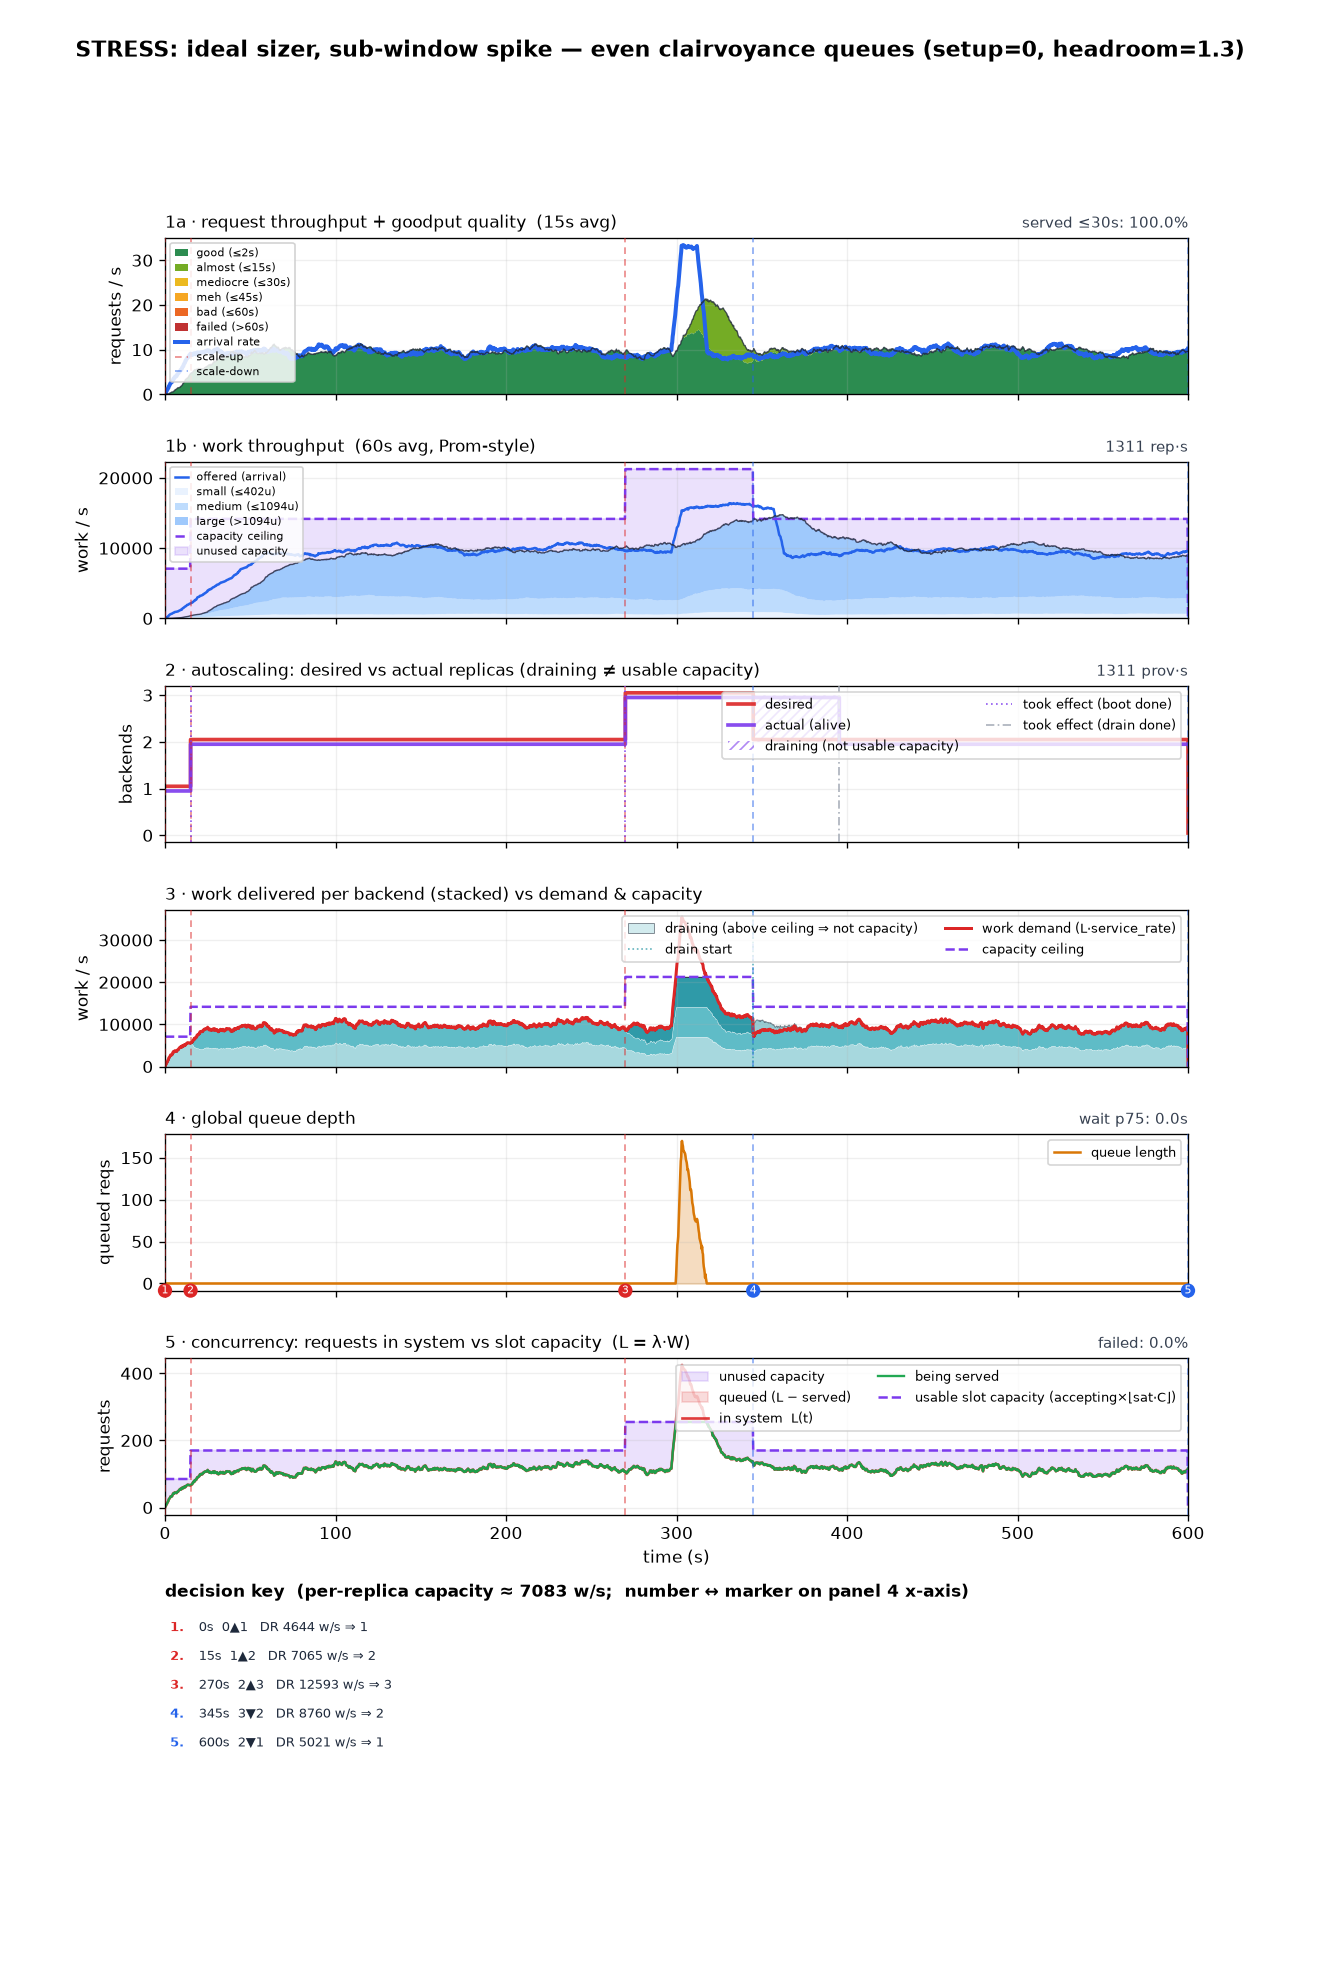
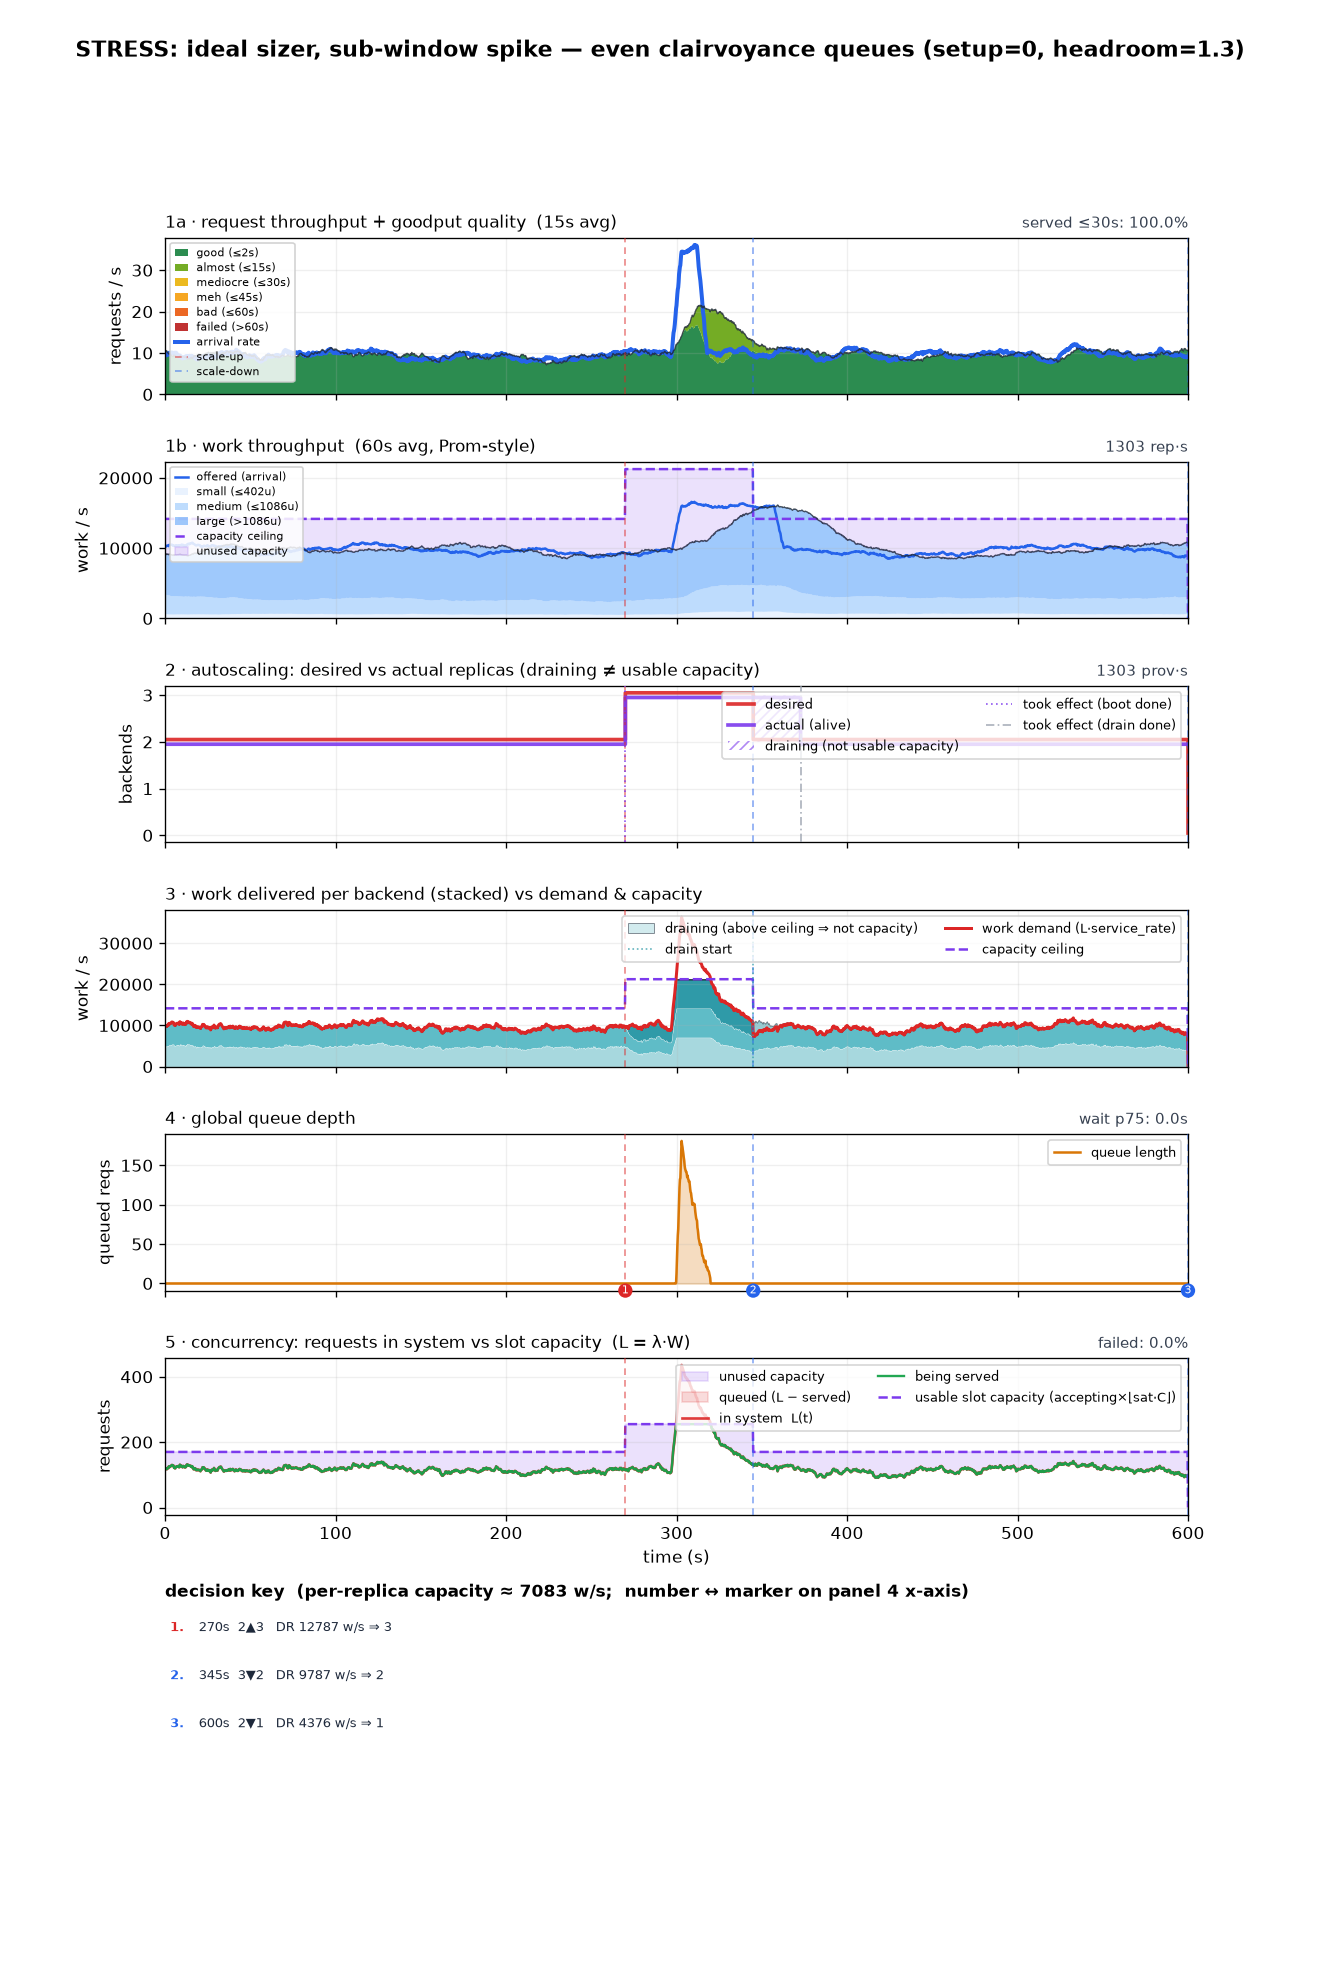
viz: re-render stress-ideal-spike under burn-in (was a pre-burn-in figure)
The burn-in regeneration pass missed stress_ideal.py. It consumes run.BURN_IN
(stress_ideal.py:38), so its output changed when burn-in landed, but out/stress-ideal-spike.png
was never re-rendered — leaving one pre-burn-in figure in an otherwise regenerated deck.

Established from history, not inferred: the PNG was last written by e95901a0 (2026-08-05),
burn-in entered run.py/sim.py in 4556398f (2026-08-07), and b7d8d5c1 "regenerate all
artifacts under burn-in" did not touch it. The fresh render differs in 140,382 of 2,613,600
pixels (5.37%), diff bounded to (99,238)-(1191,1749) — inside the plot area, so the curves
moved rather than a timestamp.

Worth recording that this was the ONLY stale artifact: a full regeneration reproduced 161 of
162 tracked files byte-for-byte across a Python 3.12 -> 3.14 change, this figure being the
lone exception. It was also the one thing contradicting REVIEW-CHECKLIST.md's own
"regenerated & honest" claim, so the finding is written up there as follow-up 4 rather than
left in a commit message. The transferable lesson is that the deck has four regeneration
entry points, not three: run.py, sweep.py, report.py, and stress_ideal.py.

diff --git a/REVIEW-CHECKLIST.md b/REVIEW-CHECKLIST.md
@@ -154,6 +154,22 @@ of writing → committing now on top of `dd648c93`; still not pushed (item D pen
    pass in design §8.1 item 11 + §B here, and refresh §2.4's "successor, in flight" note to
    past tense. Item **D (push) still pending Dean's OK**; everything remains local on `plans`.
 
+4. **`stress_ideal.py`'s figure was missed by the burn-in regeneration — found and FIXED 2026-08-07.**
+   The regenerate step in follow-up 3 covered `run.py` / `sweep.py` / `report.py` but not
+   `stress_ideal.py`, which consumes `run.BURN_IN` (`stress_ideal.py:38`) and therefore also changed
+   output. So `out/stress-ideal-spike.png` was still a **pre-burn-in** render. Established from
+   history rather than inferred: the PNG was last written by `e95901a0` (2026-08-05), burn-in entered
+   `run.py` / `sim.py` in `4556398f` (2026-08-07), and `b7d8d5c1` *"regenerate all artifacts under
+   burn-in"* did not touch it. A fresh render differs in **140,382 of 2,613,600 pixels (5.37 %)**,
+   with the diff bounded to (99,238)–(1191,1749) — inside the plot area, so curves moved, not
+   metadata or a timestamp.
+
+   This was the single artifact contradicting this file's *"deck regenerated & honest"* status, and it
+   is worth knowing it was the **only** one: a full regeneration on 2026-08-07 reproduced **161 of 162**
+   tracked artifacts byte-for-byte (across a Python 3.12 → 3.14 change), this figure being the lone
+   exception. Corrected render is committed. Lesson for the next regeneration: the deck has **four**
+   entry points, not three — `run.py`, `sweep.py`, `report.py`, **and** `stress_ideal.py`.
+
 **Original locked plan (for reference):** design decisions locked in discussion; deck was at
 `6f36b905` when the plan was written.
 
